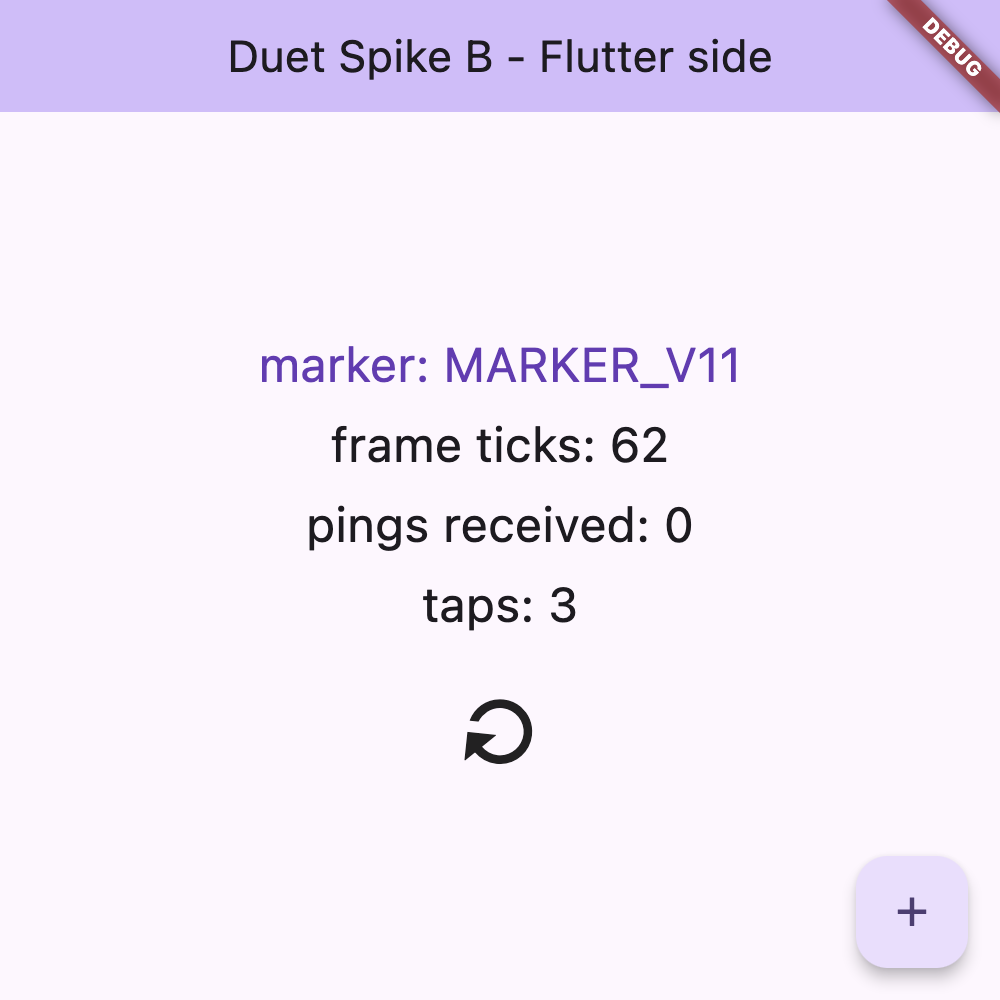
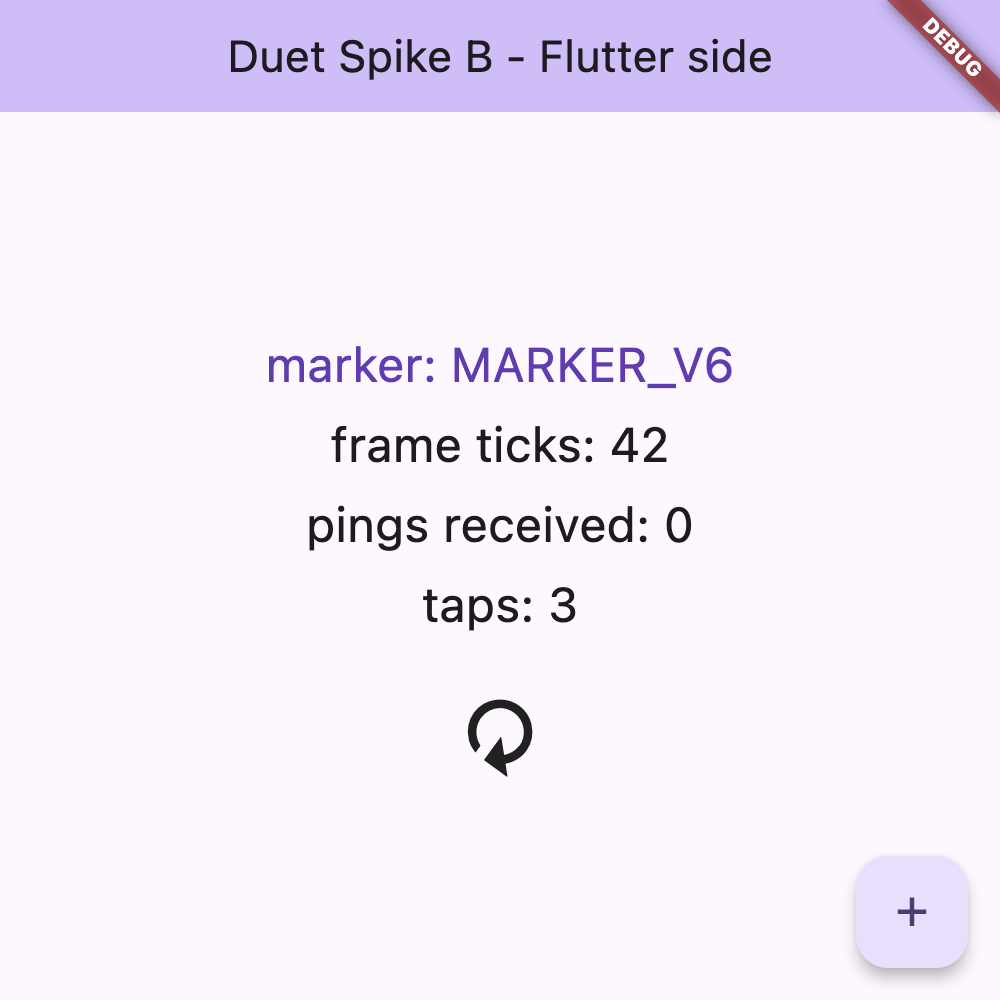
docs: record Spike C findings — hot reload works
Phase 0 complete. All three spikes pass; the architecture is sound.

Spike C, the highest-risk assumption, holds: a Rust-hosted Flutter
engine in JIT mode hot-reloads via the Dart VM service driven by a
self-managed frontend_server.

Measured edit-to-pixel latency (file write -> changed UI rendered),
independently re-run: median 112.9ms, max 143.9ms — roughly 4x inside
the 500ms bar. Incremental recompiles are 9-22ms, faster than the
~200ms the spec estimated.

Genuine hot reload, not restart: Dart heap state survived every reload,
and reloadSources reported savedLibraryCount=752 vs receivedLibrary
Count=2.

Three Phase 4 requirements recorded in the spec: ext.flutter.reassemble
must follow reloadSources; never set force:true (fatal inside the Dart
VM); and capturing the VM service URI currently needs an fd-1 redirect.

Also tracks spikes/spike_app/lib/main.dart, which flutter create will
not regenerate — it carries the platform channel and reload marker the
spikes depend on.

diff --git a/spikes/spike_app/lib/main.dart b/spikes/spike_app/lib/main.dart
@@ -1,0 +1,180 @@
+import 'package:flutter/material.dart';
+import 'package:flutter/scheduler.dart';
+import 'package:flutter/services.dart';
+
+// Spike B: platform channel used by the Rust host to prove that a message
+// sent from a background "core thread" via tao's EventLoopProxy actually
+// lands on the Flutter side, and gets a reply the host can read.
+const MethodChannel _spikeBChannel = MethodChannel('duet/spike_b');
+
+// Spike C: separate channel used purely for hot-reload latency measurement.
+// The host edits kReloadMarker's value on disk, drives an incremental
+// recompile + reloadSources, and then waits to see the NEW marker value
+// arrive over this channel - that closes the loop from "source file
+// written" to "the changed UI has actually rendered a frame", which is what
+// exit criterion 5 asks to be measured, not just the RPC round trip.
+const MethodChannel _spikeCChannel = MethodChannel('duet/spike_c');
+
+// THIS is the line Spike C's driver edits on disk between reload iterations
+// (e.g. 'MARKER_V1' -> 'MARKER_V2' -> ...). Kept as a single top-level const
+// string so each edit is a single-line, single-token diff for the
+// incremental compiler to pick up.
+const String kReloadMarker = 'MARKER_V1';
+
+void main() {
+  runApp(const MyApp());
+}
+
+class MyApp extends StatelessWidget {
+  const MyApp({super.key});
+
+  @override
+  Widget build(BuildContext context) {
+    return MaterialApp(
+      title: 'Duet Spike B',
+      theme: ThemeData(colorScheme: ColorScheme.fromSeed(seedColor: Colors.deepPurple)),
+      home: const MyHomePage(title: 'Duet Spike B - Flutter side'),
+    );
+  }
+}
+
+class MyHomePage extends StatefulWidget {
+  const MyHomePage({super.key, required this.title});
+
+  final String title;
+
+  @override
+  State<MyHomePage> createState() => _MyHomePageState();
+}
+
+class _MyHomePageState extends State<MyHomePage> with SingleTickerProviderStateMixin {
+  // Counts every vsync tick this widget has been asked to repaint, driven by
+  // Flutter's own scheduler - NOT by anything the Rust host does. This is the
+  // "Flutter keeps making independent progress" proof for exit criterion 2.
+  int _frameTicks = 0;
+
+  // Counts how many times the native 'ping' method has been invoked on
+  // _spikeBChannel from Rust (via engine.binaryMessenger / FlutterMethodChannel).
+  // This is the "message actually landed" proof for exit criterion 3.
+  int _pingCount = 0;
+
+  // Counts real Flutter-side tap gestures on the FloatingActionButton,
+  // separately from synthetic-input-driven taps, so criterion 5 can tell
+  // whether a synthetic NSEvent produced a real tap.
+  int _tapCount = 0;
+
+  late final Ticker _ticker;
+
+  @override
+  void initState() {
+    super.initState();
+    _spikeBChannel.setMethodCallHandler(_handleMethodCall);
+    _ticker = createTicker((_) {
+      if (!mounted) return;
+      setState(() {
+        _frameTicks++;
+      });
+    });
+    _ticker.start();
+    // Kick off the recurring post-frame reporter (Spike C latency probe).
+    SchedulerBinding.instance.addPostFrameCallback(_reportFrame);
+  }
+
+  Future<dynamic> _handleMethodCall(MethodCall call) async {
+    switch (call.method) {
+      case 'ping':
+        final n = call.arguments;
+        setState(() {
+          _pingCount++;
+        });
+        return 'pong pingCount=$_pingCount frameTicks=$_frameTicks tapCount=$_tapCount n=$n';
+      case 'query':
+        return 'frameTicks=$_frameTicks pingCount=$_pingCount tapCount=$_tapCount';
+      case 'increment':
+        // Deterministic alternative to synthetic-input-driven taps (Spike B
+        // found synthetic NSEvents unreliable in this windowless
+        // environment). This is what Spike C uses to drive Dart heap state
+        // to a non-zero value before reloading, to test whether reload
+        // preserves it.
+        setState(() {
+          _tapCount++;
+        });
+        return _tapCount;
+      default:
+        return null;
+    }
+  }
+
+  // Fires after every frame (re-registers itself each time, since
+  // addPostFrameCallback only fires once per registration). Reports the
+  // CURRENT value of kReloadMarker plus tapCount to the host. Because
+  // kReloadMarker is read directly in build() below, a hot reload that
+  // patches this file's compiled code changes what this method sends on
+  // the very next frame - which is exactly the "edit -> pixel" signal
+  // Spike C's driver waits on.
+  void _reportFrame(Duration _) {
+    _spikeCChannel.invokeMethod('frameMarker', <String, dynamic>{
+      'marker': kReloadMarker,
+      'tapCount': _tapCount,
+    });
+    SchedulerBinding.instance.addPostFrameCallback(_reportFrame);
+  }
+
+  void _incrementCounter() {
+    setState(() {
+      _tapCount++;
+    });
+  }
+
+  @override
+  void dispose() {
+    _ticker.dispose();
+    _spikeBChannel.setMethodCallHandler(null);
+    super.dispose();
+  }
+
+  @override
+  Widget build(BuildContext context) {
+    return Scaffold(
+      appBar: AppBar(
+        backgroundColor: Theme.of(context).colorScheme.inversePrimary,
+        title: Text(widget.title),
+      ),
+      // GestureDetector fills the whole body (HitTestBehavior.opaque) so a
+      // synthetic click anywhere in the window body - not just on the tiny
+      // FAB - can be used to test whether synthetic input routing (exit
+      // criterion 5) reaches Flutter's gesture pipeline at all.
+      body: GestureDetector(
+        behavior: HitTestBehavior.opaque,
+        onTap: _incrementCounter,
+        child: Center(
+          child: Column(
+            mainAxisAlignment: MainAxisAlignment.center,
+            children: [
+              Text(
+                'marker: $kReloadMarker',
+                style: Theme.of(context).textTheme.headlineSmall?.copyWith(color: Colors.deepPurple),
+              ),
+              const SizedBox(height: 8),
+              Text('frame ticks: $_frameTicks', style: Theme.of(context).textTheme.headlineSmall),
+              const SizedBox(height: 8),
+              Text('pings received: $_pingCount', style: Theme.of(context).textTheme.headlineSmall),
+              const SizedBox(height: 8),
+              Text('taps: $_tapCount', style: Theme.of(context).textTheme.headlineSmall),
+              const SizedBox(height: 24),
+              RotationTransition(
+                turns: AlwaysStoppedAnimation((_frameTicks % 120) / 120.0),
+                child: const Icon(Icons.refresh, size: 48),
+              ),
+            ],
+          ),
+        ),
+      ),
+      floatingActionButton: FloatingActionButton(
+        onPressed: _incrementCounter,
+        tooltip: 'Increment',
+        child: const Icon(Icons.add),
+      ),
+    );
+  }
+}

diff --git a/docs/superpowers/spikes/2026-08-04-phase0-findings.md b/docs/superpowers/spikes/2026-08-04-phase0-findings.md
@@ -6,7 +6,7 @@ Charter: `docs/superpowers/plans/2026-08-04-phase0-spike-charter.md`
 |---|---|---|
 | A | Engine-first embedding and view parenting | **YES** (macOS; Windows/Linux pending) |
 | B | Run loop coexistence | **YES** (macOS; Linux NOT attempted — largest open risk) |
-| C | Hot reload in a custom embedder | not started |
+| C | Hot reload in a custom embedder | **YES** — genuine hot reload, ~113 ms median |
 
 Environment: macOS 26.5.2, arm64. Flutter 3.47.0-0.3.pre (master), Dart 3.13.0.
 Rust 1.92. `objc2` 0.6.4, `objc2-app-kit`/`objc2-foundation` 0.3.2, `tao` 0.36.0.
@@ -226,17 +226,95 @@ thread. Re-check on Windows and Linux, where embedder threading differs.
 
 ---
 
-## Spike C — Hot reload in a custom embedder: not started
+## Spike C — Hot reload in a custom embedder (macOS): **YES**
 
-Spike A's F7 is an encouraging early signal: the headless engine exposed a Dart VM service URI
-with no configuration at all, which is most of Spike C's criterion 2.
+**The highest-risk assumption in the project holds.** A Rust-hosted Flutter engine in JIT mode
+hot-reloads via the Dart VM service, driven by a `frontend_server` we manage ourselves, with
+genuine hot-reload semantics and latency roughly 4× inside the 500 ms bar.
+
+Full write-up: `spikes/spike-c-macos/FINDINGS.md`. Verified by the controller re-running it.
+
+| # | Criterion | Verdict |
+|---|---|---|
+| 1 | JIT kernel loads and renders in a Rust host | yes (reused Spike A) |
+| 2 | VM service URI printed and usable | yes |
+| 3 | Persistent `frontend_server` emits incremental diffs | yes — 9–22 ms per recompile |
+| 4 | `reloadSources` applies the diff, **Dart heap state survives** | **yes** |
+| 5 | Edit→pixel latency under 500 ms | **yes — median ~113 ms** |
+
+### C1 — Latency is roughly 4× inside the requirement
+
+Measured from *source file written* to *the new marker observed over a platform channel from a
+post-frame callback* — so the interval includes recompile, `reloadSources`, widget rebuild and
+render, not merely the RPC round trip.
+
+| Run | n | min | median | max |
+|---|---|---|---|---|
+| Subagent | 10 | 111.7 ms | 123.3 ms | 165.1 ms |
+| **Controller re-run** | 5 | **107.5 ms** | **112.9 ms** | **143.9 ms** |
+
+**Impact — spec §8.2.** The hot-reload-parity requirement that drove v1's scope is achievable.
+The persistent-`frontend_server` decision is vindicated: incremental recompiles are 9–22 ms, so
+the bulk of the 113 ms is VM reload plus rebuild, not compilation.
+
+### C2 — It is genuine hot reload, not hot restart
+
+Two independent proofs:
+
+1. **Dart heap state survived.** `_tapCount` was primed to 3 and stayed 3 across every reload in
+   three separate runs. A restart resets it to 0.
+2. **The reload was incremental**, per `reloadSources`' own report:
+
+```json
+{"receivedLibraryCount":2, "savedLibraryCount":752, "finalLibraryCount":753,
+ "receivedLibrariesBytes":22912, "success":true, "type":"ReloadReport"}
+```
+
+752 libraries **saved**, only 2 received (22 KB). A restart would reload all 753.
+
+### C3 — `ext.flutter.reassemble` is required after `reloadSources`
+
+`reloadSources` alone loads the new code but does not rebuild the widget tree. The host must
+follow it with an `ext.flutter.reassemble` service-extension call, exactly as `flutter_tools`
+does. Both calls appear in every measured iteration.
+
+### C4 — A stray `force: true` on `reloadSources` causes a VM-fatal crash
+
+Adding `"force": true` to the `reloadSources` params produced a fatal error inside the Dart VM's
+own C++ runtime (`"StatelessWidget which is not loaded yet"`) — it asks the VM to force-reload
+libraries the delta does not contain. Real `flutter_tools` never sets it.
+
+Worth recording because the failure is opaque and fatal, and because the subagent pursued two
+plausible-but-wrong fixes (splicing the baseline kernel over the bundle's `kernel_blob.bin`;
+switching to `package:` URIs) before isolating the real cause, then verified by reverting both.
+**Phase 4's CLI must not set `force`.**
+
+### C5 — Capturing the VM service URI needs an fd-1 redirect
+
+The engine prints the URI to stdout from native code, so Rust cannot see it through normal
+means. The spike redirects fd 1 to capture it (`src/stdout_capture.rs`). Workable, but ugly.
+
+**Phase 4 should look for a cleaner route** — the VM service URI may be obtainable from the
+engine object or via `--vm-service-port` with a known port — before shipping an fd-redirect in
+the CLI.
 
 ---
 
-## Open risks after Spikes A and B
+## Phase 0 verdict: all three spikes PASS. The architecture is sound.
+
+The design rests on three assumptions and all three now have running-code evidence on macOS.
+Nothing found in Phase 0 invalidates the architecture; the corrections were to detail
+(§6.1 signatures, §6.4 multi-view, §5.1 memory semantics, §8 asset bundling).
+
+## Open risks carried into Phase 1+
 
 1. **Linux (Flutter GTK + WebKitGTK in one GTK main loop)** — not attempted, no platform
-   available. The least-trodden combination in the design and the largest unretired risk.
+   available. The least-trodden combination in the design and now **the largest unretired risk
+   in the project**. Spec §12 Phase 5 should front-load it rather than treat it as fill-in.
 2. **Windows** — engine-first signatures and run loop both unverified.
-3. **Real input routing**, especially to the webview — untestable in this environment.
-4. **Spike C** — hot reload, still the item that can most change the plan.
+3. **Real input routing**, especially to the webview — untestable here; synthetic input reached
+   Flutter but not the webview.
+4. **Engine cycling leaks** — Spike A's 8-cycle sample was inconclusive; the Phase 3 soak test
+   is the right instrument.
+5. **`Could not create the embedder backing store`** under rapid view cycling — unexplained,
+   flagged for the soak test.

diff --git a/docs/superpowers/specs/2026-08-04-duet-design.md b/docs/superpowers/specs/2026-08-04-duet-design.md
@@ -467,6 +467,34 @@ roughly 200 ms incremental recompile versus 1–3 s rebuild.
 is printed so `flutter attach` and IDE debuggers work as well. The URI costs nothing to
 expose.
 
+> **CONFIRMED by Spike C (2026-08-04).** This works, and the persistent-`frontend_server`
+> decision is vindicated. Measured edit→pixel latency — file write to the changed UI actually
+> rendered, including recompile, reload, rebuild and render:
+>
+> | Run | n | min | median | max |
+> |---|---|---|---|---|
+> | Spike | 10 | 111.7 ms | 123.3 ms | 165.1 ms |
+> | Independent re-run | 5 | 107.5 ms | 112.9 ms | 143.9 ms |
+>
+> Roughly 4× inside the 500 ms bar. Incremental recompiles were 9–22 ms — faster than the
+> ~200 ms estimated above — so most of the latency is VM reload plus widget rebuild, not
+> compilation.
+>
+> It is **genuine hot reload, not restart**: Dart heap state survived every reload
+> (`_tapCount` held at 3), and `reloadSources` reported `savedLibraryCount: 752` against
+> `receivedLibraryCount: 2`.
+>
+> Three implementation requirements for Phase 4, all learned the hard way:
+>
+> - **`ext.flutter.reassemble` must follow `reloadSources`.** The former loads new code; only
+>   the latter rebuilds the widget tree. `flutter_tools` does both.
+> - **Never set `force: true` on `reloadSources`.** It causes a fatal error inside the Dart VM's
+>   own C++ runtime (`"StatelessWidget which is not loaded yet"`), because it asks the VM to
+>   force-reload libraries the delta does not contain.
+> - **Capturing the VM service URI currently needs an fd-1 redirect**, since the engine prints
+>   it from native code. Workable but ugly — look for a cleaner route (a known
+>   `--vm-service-port`, or reading it off the engine object) before shipping this in the CLI.
+
 ### 8.3 `duet build`
 
 AOT `flutter assemble` → web production bundle → `cargo build --release` → platform bundling
